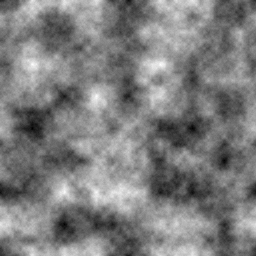
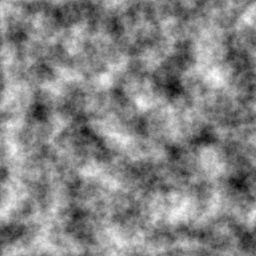
added Perlin noise and identified value noise

diff --git a/lib/noise/perlin_noise.rb b/lib/noise/perlin_noise.rb
@@ -1,0 +1,64 @@
+#!/usr/bin/env ruby
+
+class Noise::PerlinNoise < Noise::Base
+
+  def initialize(width, height, random=Random.new)
+    super
+    @p = (0...(@width > @height ? @width : @height)).to_a.shuffle(random: random)*2
+  end
+
+  private
+
+  def interpolate(a, b, alpha)
+    linear_interpolation(a, b, alpha)
+  end
+
+  def noise(octave)
+    noise     = array { nil }
+    period    = 1 << octave
+    frequency = 1.0 / period
+
+    @width.times do |x|
+      xa = (x * frequency) % (@width * frequency)
+      x1 = xa.to_i
+      x2 = (x1 + 1) % (@width * frequency)
+
+      xf = xa - xa.to_i
+      xb = fade(xf)
+
+      @height.times do |y|
+        ya = (y * frequency) % (@height * frequency)
+        y1 = ya.to_i
+        y2 = (y1 + 1) % (@height * frequency)
+
+        yf = ya - ya.to_i
+        yb = fade(yf)
+
+        top    = interpolate(gradient(@p[@p[x1]+y1], xf, yf  ), gradient(@p[@p[x2]+y1], xf-1, yf  ), xb)
+        bottom = interpolate(gradient(@p[@p[x1]+y2], xf, yf-1), gradient(@p[@p[x2]+y2], xf-1, yf-1), xb)
+    
+        noise[x][y] = (interpolate(top, bottom, yb) + 1) / 2
+      end
+    end
+
+    return noise
+  end
+
+  def fade(t)
+    return t * t * t * (t * (t * 6 - 15) + 10)
+  end
+
+  def gradient(h, x, y)
+    case h & 7
+      when 0 then return      y
+      when 1 then return  x + y
+      when 2 then return  x
+      when 3 then return  x - y
+      when 4 then return    - y
+      when 5 then return -x - y
+      when 6 then return -x
+      when 7 then return -x + y
+    end
+  end
+
+end

diff --git a/lib/noise/filters.rb b/lib/noise/filters.rb
@@ -1,21 +1,21 @@
 #!/usr/bin/env ruby
 
-module PerlinNoise::Filters
+module Noise::Filters
 
   def normalize
     min, max = 1.0, 0.0
 
     xy do |x,y|
-      value = @perlin_noise[x][y]
+      value = @noise[x][y]
       min   = value if value < min
       max   = value if value > max
     end
 
-    xy { |x,y| @perlin_noise[x][y] = (@perlin_noise[x][y] - min)/(max - min)  }
+    xy { |x,y| @noise[x][y] = (@noise[x][y] - min)/(max - min)  }
   end
 
   def gamma_filter(gamma)
-    xy { |x,y| @perlin_noise[x][y] = @perlin_noise[x][y] ** gamma  }
+    xy { |x,y| @noise[x][y] = @noise[x][y] ** gamma  }
   end
 
   def median_filter(window)
@@ -23,7 +23,7 @@ module PerlinNoise::Filters
     edgey = (window / 2).floor
     noise = array { 0 }
 
-    xy { |x, y| noise[x][y] = @perlin_noise[x][y] }
+    xy { |x, y| noise[x][y] = @noise[x][y] }
 
     xy do |x,y|
       values = []
@@ -36,7 +36,7 @@ module PerlinNoise::Filters
           wx -= @width  if wx >= @width
           wy -= @height if wy >= @height
 
-          values << @perlin_noise[wx][wy]    
+          values << @noise[wx][wy]    
         end
       end
 
@@ -46,7 +46,7 @@ module PerlinNoise::Filters
       noise[x][y] = new_value
     end
 
-    @perlin_noise = noise
+    @noise = noise
   end
 
 end

diff --git a/lib/noise/value_noise.rb b/lib/noise/value_noise.rb
@@ -1,0 +1,42 @@
+#!/usr/bin/env ruby
+
+class Noise::ValueNoise < Noise::Base
+  attr_reader :white_noise
+
+  def initialize(width, height, random=Random.new)
+    super
+    @white_noise = array { random.rand }
+  end
+
+  private
+
+  def interpolate(a, b, alpha)
+    cosine_interpolation(a, b, alpha)
+  end
+
+  def noise(octave)
+    noise     = array { nil }
+    period    = 1 << octave
+    frequency = 1.0 / period
+   
+    @width.times do |x|
+      x1 = (x  / period) * period
+      x2 = (x1 + period) % @width
+      xb = (x  - x1)     * frequency
+
+      @height.times do |y|
+        y1 = (y  / period) * period
+        y2 = (y1 + period) % @height
+        yb = (y  - y1)     * frequency
+
+        top    = interpolate(@white_noise[x1][y1], @white_noise[x2][y1], xb)
+        bottom = interpolate(@white_noise[x1][y2], @white_noise[x2][y2], xb)
+
+        noise[x][y] = interpolate(top, bottom, yb)
+      end
+    end
+
+    return noise
+  end
+
+end

diff --git a/lib/noise/base.rb b/lib/noise/base.rb
@@ -1,0 +1,34 @@
+#!/usr/bin/env ruby
+
+class Noise::Base
+  attr_reader :noise, :octave_noise
+
+  include Noise::Interpolation
+  include Noise::Utils
+  include Noise::Filters
+  include Noise::Output
+
+  def initialize(width, height, random=Random.new)
+    @width, @height = width, height
+  end
+
+  def generate(octaves=6, persistence=0.6)
+    @noise        = array { 0.0 } 
+    @octave_noise = Array.new(octaves) { |octave| noise(octave) }
+
+    amplitude = 1.0
+    max       = 0.0
+
+    (octaves - 1).downto(0) do |octave|
+      amplitude *= persistence
+      max       += amplitude
+
+      xy { |x,y| @noise[x][y] += @octave_noise[octave][x][y] * amplitude }
+    end
+
+    xy { |x,y| @noise[x][y] /= max }
+
+    return @noise
+  end
+
+end

diff --git a/lib/noise.rb b/lib/noise.rb
@@ -1,0 +1,15 @@
+#!/usr/bin/env ruby
+
+module Noise
+  VERSION = '1.1.0'
+end
+
+require 'chunky_png'
+
+require_relative 'noise/interpolation'
+require_relative 'noise/utils'
+require_relative 'noise/filters'
+require_relative 'noise/output'
+require_relative 'noise/base'
+require_relative 'noise/value_noise'
+require_relative 'noise/perlin_noise'

diff --git a/lib/noise/output.rb b/lib/noise/output.rb
@@ -1,10 +1,10 @@
 #!/usr/bin/env ruby
 
-module PerlinNoise::Output
+module Noise::Output
 
   def output(filename)
     image = ChunkyPNG::Image.new(@width, @height)
-    xy { |x,y| image[x,y] = yield(@perlin_noise[x][y]) }
+    xy { |x,y| image[x,y] = yield(@noise[x][y]) }
     image.save(filename)
   end
 

diff --git a/lib/noise/interpolation.rb b/lib/noise/interpolation.rb
@@ -1,0 +1,14 @@
+#!/usr/bin/env ruby
+
+module Noise::Interpolation
+
+  def linear_interpolation(a, b, alpha)
+    a * (1 - alpha) + b * alpha
+  end
+
+  def cosine_interpolation(a, b, alpha)
+    alpha = (1.0 - Math.cos(alpha*Math::PI)) / 2.0
+    a * (1 - alpha) + b * alpha 
+  end
+
+end

diff --git a/lib/noise/utils.rb b/lib/noise/utils.rb
@@ -1,6 +1,6 @@
 #!/usr/bin/env ruby
 
-module PerlinNoise::Utils
+module Noise::Utils
 
   def array
     Array.new(@width) { Array.new(@height) { yield } }

diff --git a/README.md b/README.md
@@ -1,22 +1,25 @@
-# perlin_noise
+# fractal_noise
 
-simple ruby script for generating images of 2D perlin noise
+simple ruby script for generating images of 2D fractal noise using perlin noise or value noise
 
 **Installation**
 
-1. git clone git@github.com:mjwhitt/perlin_noise.git
-2. cd perlin_noise/
+1. git clone git@github.com:mjwhitt/fractal_noise.git
+2. cd fractal_noise/
 3. bundle install --path vendor/
-4. ./bin/perlin_noise --help
 
 **Example Output**
 
-./bin/perlin_noise -s 1138 -w 256 -h 256 -n
+> ./bin/value_noise -s 1138 -w 256 -h 256 -n
+
+![value_noise-1138.png](value_noise-1138.png)
+
+> ./bin/perlin_noise -s 1138 -w 256 -h 256 -n
 
 ![perlin_noise-1138.png](perlin_noise-1138.png)
 
 **See Also**
 
-* [Perlin Noise](http://www.spacedust.info/2014/06/perlin-noise/)
-* [Perlin Noise - Extras](http://www.spacedust.info/2014/07/perlin-noise-extras/)
-* [Perlin Noise - Tiled](http://www.spacedust.info/2014/08/perlin-noise-tiled/)
+* [Value Noise](http://www.spacedust.info/2014/06/value-noise/)
+* [Value Noise - Extras](http://www.spacedust.info/2014/07/value-noise-extras/)
+* [Value Noise - Tiled](http://www.spacedust.info/2014/08/value-noise-tiled/)
